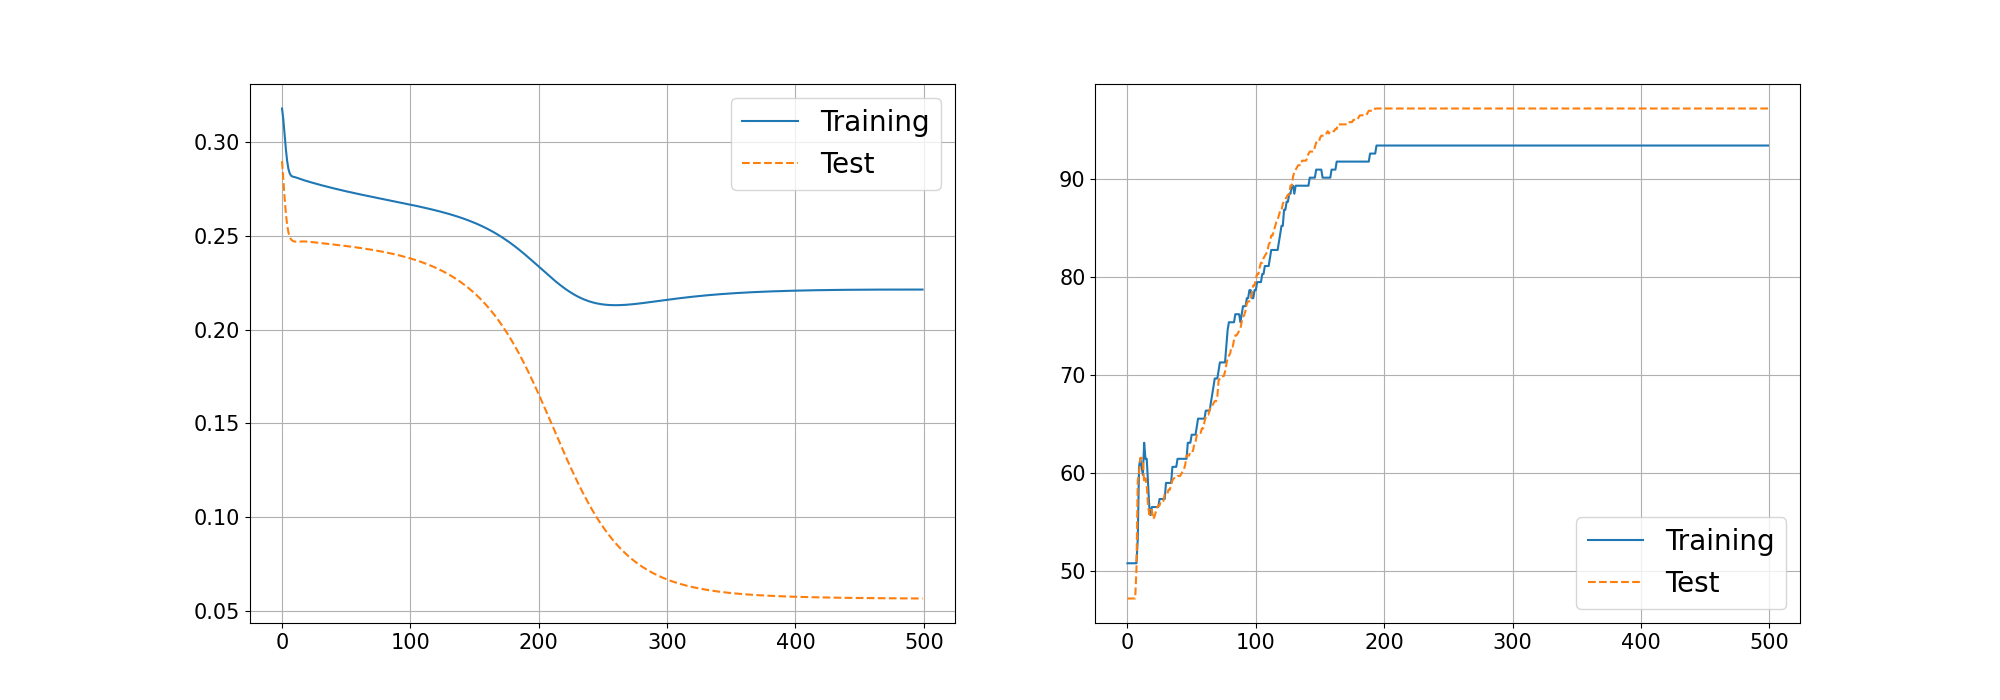
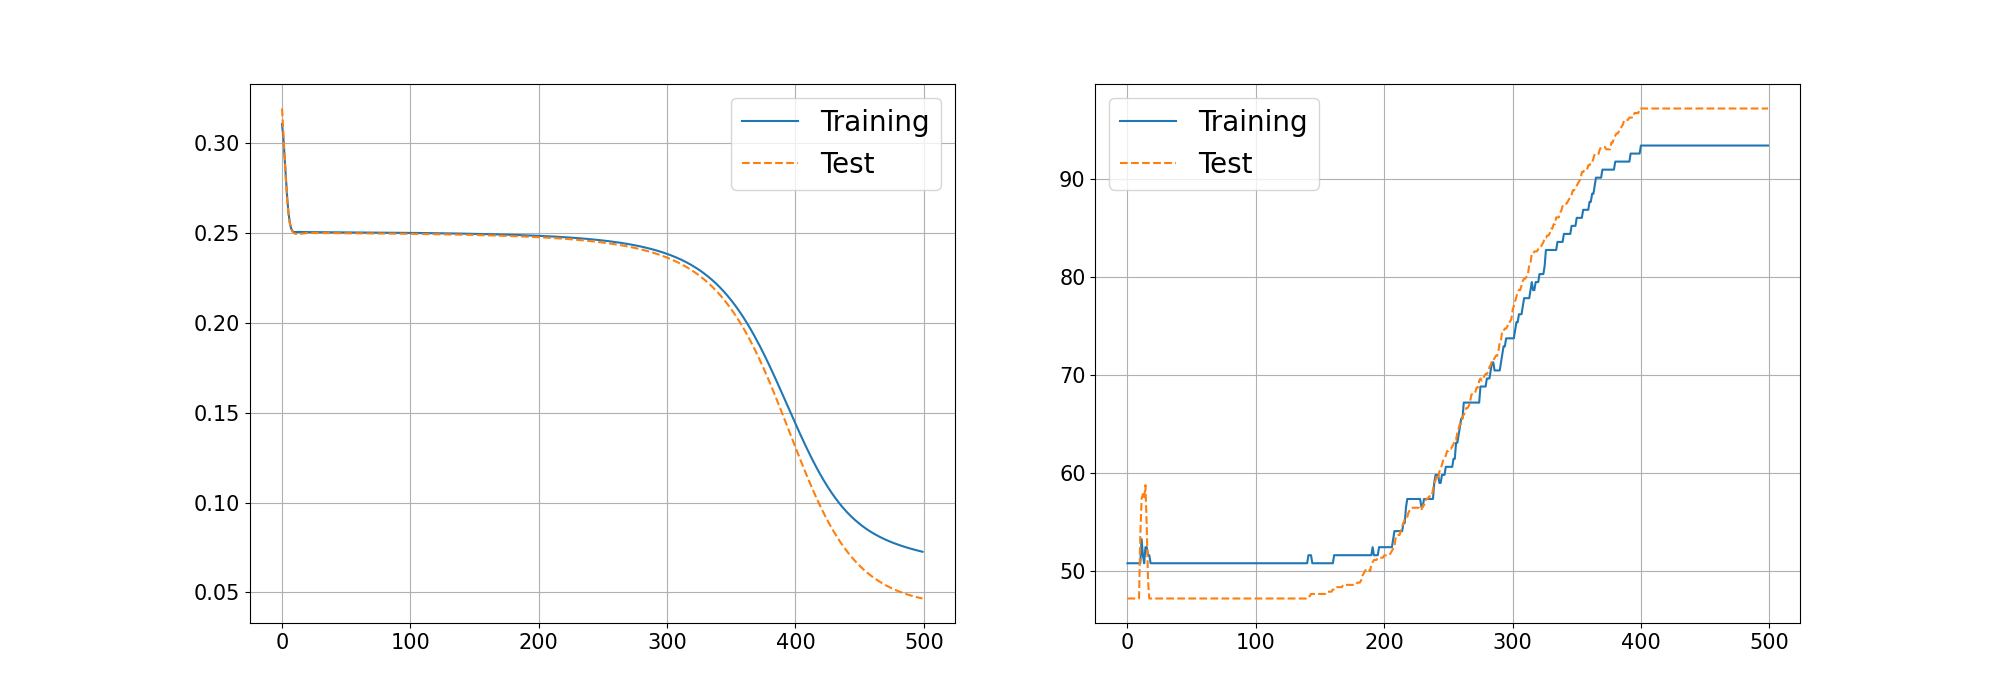
monk tests

diff --git a/NeuralNetwork/monk/monk3_reg.py b/NeuralNetwork/monk/monk3_reg.py
@@ -1,8 +1,10 @@
 import os
 import sys
 import numpy as np
+
 sys.path.insert(0, os.path.abspath('neuralnetwork'))
 
+from neuralnetwork.model.Optimizer import EarlyStopping
 import matplotlib.pyplot as plt
 from neuralnetwork.datasets.util import load_monk
 from neuralnetwork.model.NeuralNetwork import build_model
@@ -21,11 +23,11 @@ config = {
         'out_units':1,
         'hidden_act':'sigmoid',
         'out_act':'sigmoid',
-        'weights_init':'xavier_uniform',
-        'lr':0.9,
+        'weights_init':'xavier_normal',
+        'lr':0.8,
         'momentum':0.6,
         'reg_type':'l2',
-        'lambda':0.004,
+        'lambda':0.0001,
         'lr_decay':False,
         'nesterov':False
         }
